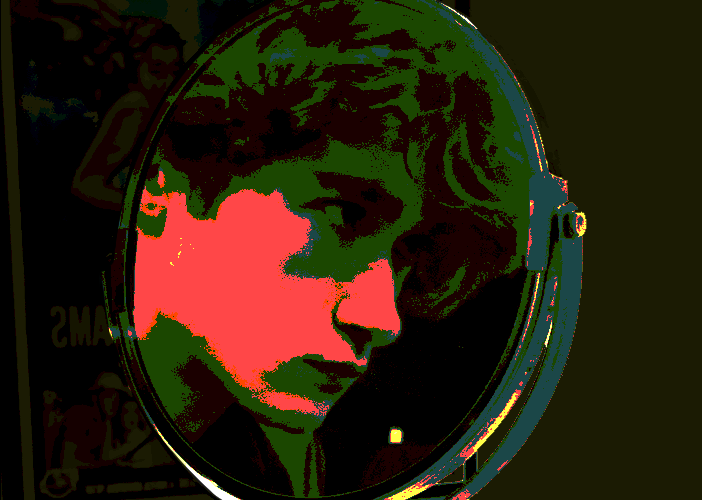
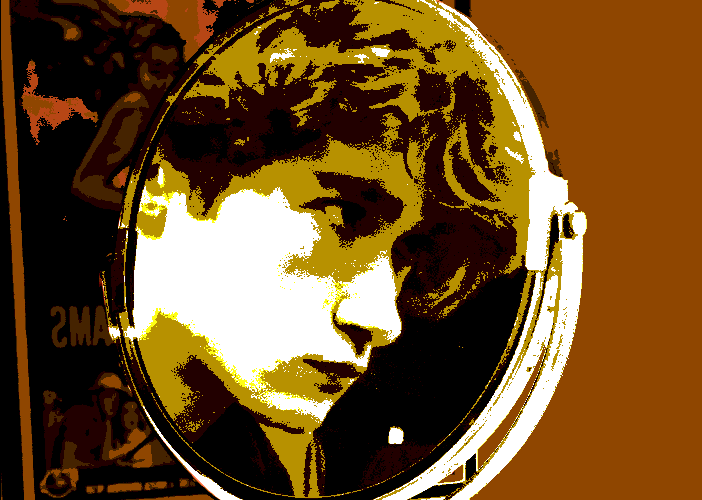
colours

diff --git a/about-me.html b/about-me.html
@@ -148,24 +148,24 @@
 
 </div>
 
-<div style="background-color: #0b5211; font-size: 40px; text-align: left;">
-	<h2 style=" margin-left:15px; color: #fc2d5a;">
+<div style="background-color: white; font-size: 40px; text-align: left;">
+	<h2 style=" margin-left:15px; color: #b79200;">
 		art
 	</h2>
-	<h3 style="font-size: 25px; color: #fc2d5a; padding: 10px;">
+	<h3 style="font-size: 25px; color: #b79200; padding: 10px;">
 		im mainly a digital artist, but i don't let that stop me from experimenting in other mediums. most recently i've been learning watercolours and latte art. i tend to stick to a semi-cartoonish, semi-realistic style, but i want to explore more of the stylized side of my art in the future. i also mostly focus on the human form, specifically on character design and portraits. i've been learning more about environmental art and also hope to expand my skillset in that direction soon. i love rough, painterly rendering styles, and expressive faces with dynamic poses and camera angles- hopefully you can see that influence in my art.
 	</h3>
 </div>
-<div style="background-color: #fc2d5a; font-size: 40px; text-align: right;">
-	<h2 style=" margin-left:15px; color: #0b5211">
+<div style="background-color: #b79200; font-size: 40px; text-align: right;">
+	<h2 style=" margin-left:15px; color: #220000">
 		games
 	</h2>
-	<h3 style="font-size: 25px; color: #0b5211; padding: 10px;">
+	<h3 style="font-size: 25px; color: #220000; padding: 10px;">
 		im a huge fan of osu!, the classic 2007 rhythm game developed by Dean "ppy" Herbert. so, it only makes sense that the first real "game" that i ever developed was a rhythm game of my own. i called it Zero Beat, and made a really rough prototype in C#'s MonoGame framework for my grade 11 computer science class. it was my first real game, with all-original code (save for some tutorials taken from youtube) and art. although the project cut my ambitions short, it was a great exercise in game development and taught me so much about C# and game design. i'm currently working on another secret project, and hope to participate in this spring's Ludum Dare 53.
 	</h3>
 </div>
 
-<div style="background-color: #cc7308; font-size: 40px; text-align: left;">
+<div style="background-color: #8f4500; font-size: 40px; text-align: left;">
 
 	<h2 style=" margin-left:15px; color: black;">
 		engineering/tech design

diff --git a/index.html b/index.html
@@ -105,7 +105,7 @@
 			position: absolute;
 			text-align: center;
 			object-fit: scale-down;
-			background-color: #013257;
+			background-color: #220000;
 		}
 		#imageScroller {
 			object-fit: scale-down;
@@ -141,7 +141,7 @@
 </head>
 
 
-<body id="body" style="background-color: #cc7308;">
+<body id="body" style="background-color: #8f4500;">
 
 
 <div class="head">

diff --git a/contact-me.html b/contact-me.html
@@ -2,7 +2,7 @@
 <html>
 <head>
 	<title>
-		About Jamer
+		Contact Jamer
 
 	</title>
 

diff --git a/portfolio.html b/portfolio.html
@@ -2,7 +2,7 @@
 <html>
 <head>
 	<title>
-		About Jamer
+		Jamer's Stuff
 
 	</title>
 
